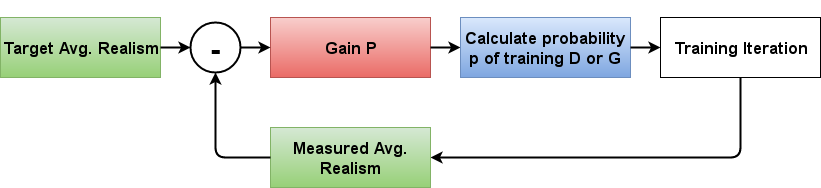
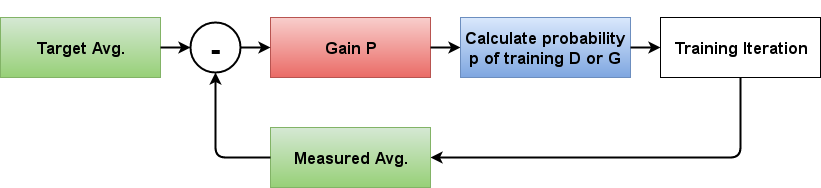
made some corrections to readme. Replace old image of the controller through new one.

Changed region(s): [[0.335, 0.7447, 0.5177, 0.9309], [0.0, 0.2128, 0.2132, 0.3191]]

diff --git a/README.md b/README.md
@@ -15,7 +15,7 @@ The code has been built and tested using the following packages (and versions)
 
 Make sure you have a running tensorflow setup.
 
-We added some special flags to have a better overview of the different experiments. One thing we added is a so called `folder_suffix` which will be appended to all checkpoint, log and samples folders. 
+We added some special flags to have a better overview of the different experiments. One thing we added is a `folder_suffix` which will be appended to all checkpoint, log and samples folders. 
 
 Here are some examples to train the ABC-GAN with datasets:
 
@@ -24,17 +24,40 @@ Here are some examples to train the ABC-GAN with datasets:
 
 
 
+
+
 ### Datasets
 
 The following datasets have been used:
 
-* CelebA (> 200'000 celebrity faces, 178 px lower side)
-* Cifar10 (60'000 pictures of 10 categories, 32x32 px)
-* LSUN (> 3 Mio images of bedrooms 256 px lower side)
+* [CelebA](http://mmlab.ie.cuhk.edu.hk/projects/CelebA.html) (> 200'000 celebrity faces, 178 px lower side)
+* [Cifar10](https://www.cs.toronto.edu/~kriz/cifar.html) (60'000 pictures of 10 categories, 32x32 px)
+* [LSUN](http://www.yf.io/p/lsun) (> 3 Mio images of bedrooms 256 px lower side)
+* [ImageNet subset](http://image-net.org/small/download.php) (ImageNet subset, 64 by 64 pixels)
 
 The easiest way to include the datasets is by having all images in one folder.
 Using such a dataset can be done by just changing the `input_fname_pattern` to the correct file ending and specifying the folder name with `dataset`.
 *(The folder with the dataset has to be in the subfolder data)*
+
+**Folder structure used for our experiments:**
+
+* **ABC-GAN**
+  * **data**
+    * **celebA**
+    * **cifar10**
+    * **lsun**
+    * **train_64x64**
+  * download.py
+  * LICENSE
+  * main.py
+  * model.py
+  * ops.py
+  * utils.py
+  * README.md
+  * **report**
+
+*train_64x64 is referring to the ImageNet subset. We used the same one as used in [Improved Wasserstein GAN](https://github.com/igul222/improved_wgan_training)*
+
 
 #### Special Case LSUN
 
@@ -68,21 +91,22 @@ In order to use LSUN just again change the `input_fname_pattern` and switch the 
 
 One of the most important points during training of GANs is balancing the discriminator against the generator. If one of the two dominates the other a mode collapse can occur. Many people started playing around with the ratio between discriminator and generator. And others used thresholds to determine if one has to train the discriminator or the generator. 
 
-In our work we implemented a simple controller to get rid of this manual tuning. We end up controlling the probability of an image being real from the discriminators point of view. Without a controller this probability ends up being somewhere close to 0.5 since the discriminator has (once the network starts converging) a 50% chance of telling correctly if the samples he sees are coming from the real dataset or the generator. 
+In our work, we implemented a simple controller to get rid of this manual tuning. We end up controlling the probability of an image being real from the discriminator's point of view. Without a controller, this probability ends up being somewhere close to 0.5 since the discriminator has (once the network starts converging) a 50% chance of telling correctly if the samples he sees are coming from the real dataset or the generator. 
 
 The controller gives you the following benefits:
 
 * Reduced training time
-* Reuse the same network for different datasets (The controller automaticall adapts to other datasets so you don't have to tune the ratio between D and G anymore)
-* In some cases the controller also improves stability during training
+* Reuse the same network for different datasets (The controller automatically adapts to other datasets so you don't have to tune the ratio between D and G anymore)
+* In some cases, the controller also improves stability during training
 
 ### Controller
 
 **Controller architecture**:
 
-*Note: The Realism is calculated using the two losses of the dscriminator (loss for real and for fake images).*
+*Note: The Realism is calculated using the two losses of the discriminator (loss for real and for fake images).*
 
 ![controller](report/controller.png)
+
 The controller tries to keep the avg. realism always at a reference point. The output of the controller is a probability of training either the discriminator or the generator.
 
 ### Controllability
@@ -94,9 +118,9 @@ The controller tries to keep the avg. realism always at a reference point. The o
 ![probability of real image from discriminators point of view with controller](report/prob_of_real_image_with_controller.png)
 ![probability of real image from discriminators point of view without controller](report/prob_of_real_image_without_controller.png)
 
-Left image shows the probability of being a real image using the controller. Right, the same experiment without the controller.
+The left image shows the probability of being a real image using the controller. Right, the same experiment without the controller.
 
-What we essentially do using the controller is, we control how many samples coming from the generator should be classified by the discriminator as real. By chance this value stays at around 0.5 since after convergence the discriminator has a 50% chance of correctly classifying an image as real or fake. The controller reduces this value *(in our case from 0.5 to around 0.25)* which makes sure that the discriminator always has a good chance to correctly classify the source of an image. Therefore, the discriminator always slighlty dominates the generator. 
+What we essentially do using the controller is, we control how many samples coming from the generator should be classified by the discriminator as real. By chance, this value stays at around 0.5 since after convergence the discriminator has a 50% chance of correctly classifying an image as real or fake. The controller reduces this value *(in our case from 0.5 to around 0.25)* which makes sure that the discriminator always has a good chance to correctly classify the source of an image. Therefore, the discriminator always slightly dominates the generator. 
 
 ### Training behaviour
 
@@ -105,7 +129,7 @@ What we essentially do using the controller is, we control how many samples comi
 *Note: Without a controller and a fixed ratio between discriminator and generator updates we would see two straight lines*
 
 ![training curve G against D](report/controller_training_curve.png)
-Through the controller the training of the networks adapts itself. In the beginning the generator is getting trained more often but after around 5k steps the discriminator takes over. As known from GAN theory we actually want the discriminator to dominate the generator. And without a controller this is not achievable without chaning the loss function (Wasserstein Loss, Cramer loss etc.)
+Through the controller, the training of the networks adapts itself. In the beginning, the generator is getting trained more often but after around 5k steps the discriminator takes over. As known from GAN theory we actually want the discriminator to dominate the generator. And without a controller, this is very hard to achieve without changing the loss function (Wasserstein Loss, Cramer loss etc.)
 
 
 **Convergence speed comparison of DCGAN with different GpD ratios and our controller**
@@ -119,7 +143,7 @@ Comparison of convergence speed. GpD: Generator per Discriminator training itera
 
 ## Adaptive Blur
 
-GANs still have trouble with stability, image quality and output resolution. We implemented an adaptive blur filter to assist the discriminator and therefore improve overall results. We figured out that the discriminator has issues with details in images. To overcome this issue we just blur all images before they reach the discriminator. So in the end, the discriminator either sees blurred images from the generator or blurred images of the dataset. Using a fixed blur such as a 3 by 3 gaussian kernel as we used in our experiments, has the side effect of additional noise in the output image. Since the generator has not to care about the details (since his output will be blurred anyway) he can add noise. To mitigate this effect, we added an adaptive blur which changes over training time. In the beginning, we have a strong blur such that the GAN can focus on improving the base structure of the output. In the end of the training we have almost no blur, such that the GAN can now focus on the details. 
+GANs still have trouble with stability, image quality and output resolution. We implemented an adaptive blur filter to assist the discriminator and therefore improve overall results. We figured out that the discriminator has issues with details in images. To overcome this issue we just blur all images before they reach the discriminator. So in the end, the discriminator either sees blurred images from the generator or blurred images of the dataset. Using a fixed blur such as a 3 by 3 Gaussian kernel as we used in our experiments, has the side effect of additional noise in the output image. Since the generator has not to care about the details (since his output will be blurred anyway) he can add noise. To mitigate this effect, we added an adaptive blur which changes over training time. In the beginning, we have a strong blur such that the GAN can focus on improving the base structure of the output. In the end of the training, we have almost no blur, such that the GAN can now focus on the details. 
 
 The blur gives you the following benefits:
 
@@ -132,28 +156,28 @@ The blur gives you the following benefits:
 **Image showing plain DCGAN without and with blur (DCGAN+B)**
 
 ![DCGAN without and with blur](report/dcgan_with_and_without_blur.png)
-The resulting imaes look much better with blur than without. They have more details but also noise.
+The resulting images look much better with blur than without. They have more details but also noise.
 
 **Comparison of different blurring strategies**
 
-*We compare two regressive blur kernel (e.g. make sigma of a gaussian blur smaller during training)*
+*We compare two regressive blur kernel (e.g. make sigma of a Gaussian blur smaller during training)*
 
 ![Comparison of blurring strategies](report/blurring_strategies_comparison.png)
-The hyperbolic decreasing gaussian blur is best when it comes to reducing the noise in the images. 
+The hyperbolic decreasing Gaussian blur is best when it comes to reducing the noise in the images. 
 
 ## ABC-GAN
 
 Combination of the Adaptive Blur and Controller GAN.
 
-We conducted different experiments using various datasets such as LSUN, CIFAR10 and CelebA. Some of the resulting images have been downscaled by a factor of two in order to reduce noise. *(Since on smoe screens and also printed the noise looks very annoying.)*
+We conducted different experiments using various datasets such as LSUN, CIFAR10 and CelebA. Some of the resulting images have been downscaled by a factor of two in order to reduce noise. *(Since on some screens and also printed the noise looks very annoying.)*
 
-*Note: In some samples you will see a green bar at the top. The bar is indicating the probability of the image coming from the real dataset rather than from the generator. We used the discriminator losses and a softmax to evaluate this probability.*
+***Note:*** *In some samples, you will see a green bar at the top. The bar is indicating the probability of the image coming from the real dataset rather than from the generator. We used the discriminator losses and a softmax to evaluate this probability.*
 
 ### LSUN bedrooms dataset
 
 **ABC-GAN with a fixed Gaussian Blur kernel of 3x3 and output resolution of 256 by 256 pixels**
 
-*Random sampled batch. Downscaled to 128 by 128 pixels to reduce noise.*
+*Randomly sampled batch. Downscaled to 128 by 128 pixels to reduce noise.*
 
 ![lsun using ABC-GAN with fixed kernel and downscaled to 128 by 128 pixels](report/lsun_fixed_blur_3x3_o256_downscaled_to_128.png)
 We seem to reach the limit of DCGAN with this experiment. The same experiment without Blur failed. The images look not very realistic but one still sees that some of them look close to bedrooms.
@@ -175,7 +199,7 @@ We seem to reach the limit of DCGAN with this experiment. The same experiment wi
 
 ## Acknowledgement
 
-* Thanks Prof. Luc Van Gool for the semesterthesis at the Computer Vision Lab D-ITET at ETH Zurich
+* Thanks, Prof. Luc Van Gool for the semester thesis at the Computer Vision Lab D-ITET at ETH Zurich
 * Thanks for supervising this thesis Eirikur Agustsson and Radu Timofte
 * This work has been based on the [DCGAN implementation found on GitHub](https://github.com/carpedm20/DCGAN-tensorflow)
 
